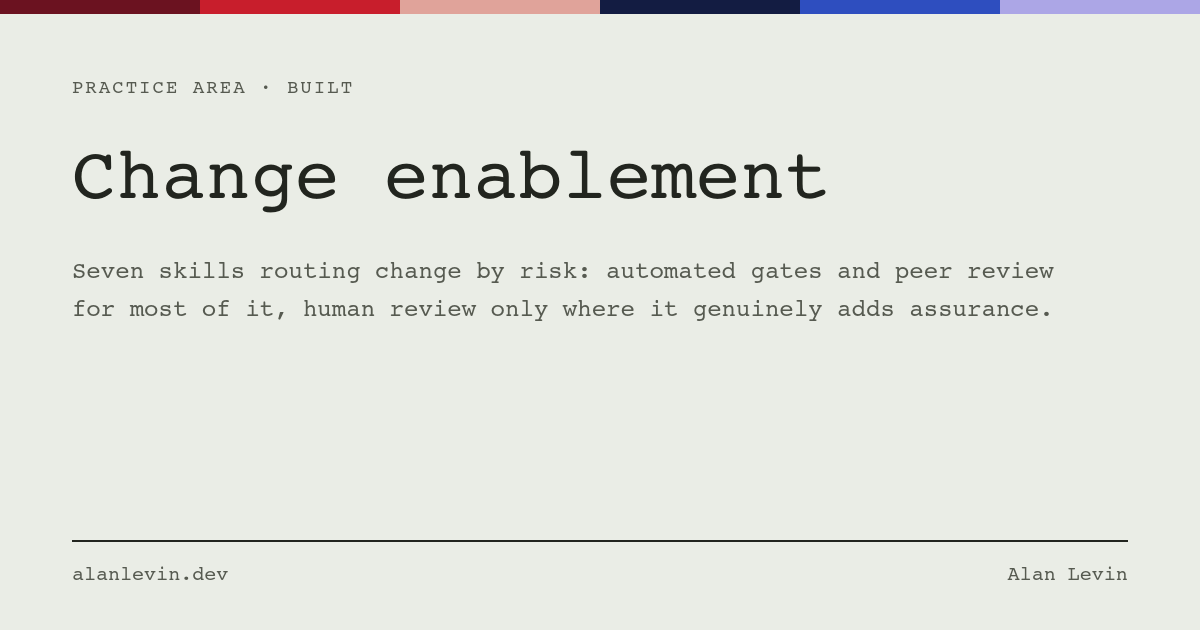
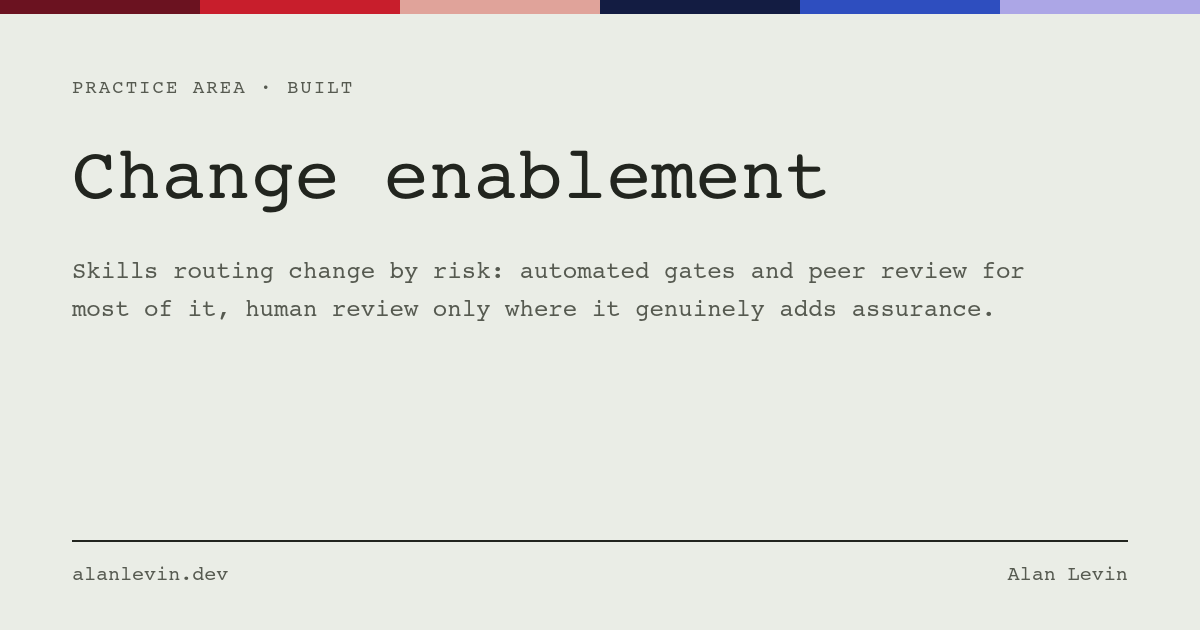
Drop skill counts site-wide

Changed region(s): [[0.0617, 0.4825, 0.8633, 0.5127], [0.3083, 0.4222, 0.8942, 0.4524], [0.0617, 0.4222, 0.2775, 0.4524]]

diff --git a/incident-problem.html b/incident-problem.html
@@ -4,27 +4,27 @@
 <meta charset="UTF-8">
 <meta name="viewport" content="width=device-width, initial-scale=1.0">
 <title>Incident &amp; problem management | Alan Levin</title>
-<meta name="description" content="Seven skills covering triage, diagnosis, status updates, resolution, problem records, root cause analysis and known errors.">
+<meta name="description" content="Skills covering triage, diagnosis, status updates, resolution, problem records, root cause analysis and known errors.">
 
 <!-- Link previews: LinkedIn, Slack, iMessage, Twitter/X, Facebook -->
 <meta property="og:type" content="website">
 <meta property="og:site_name" content="Alan Levin">
 <meta property="og:url" content="https://alanlevin.dev/incident-problem.html">
 <meta property="og:title" content="Incident & problem management | Alan Levin">
-<meta property="og:description" content="Seven skills built from a real escalation matrix: severity triage, live diagnosis, multi-audience status updates, RFO, root cause analysis and known error records.">
+<meta property="og:description" content="Skills built from a real escalation matrix: severity triage, live diagnosis, multi-audience status updates, RFO, root cause analysis and known error records.">
 <meta property="og:image" content="https://alanlevin.dev/og/incident-problem.png">
 <meta property="og:image:width" content="1200">
 <meta property="og:image:height" content="630">
 <meta property="og:image:alt" content="Incident & problem management | Alan Levin">
 <meta name="twitter:card" content="summary_large_image">
 <meta name="twitter:title" content="Incident & problem management | Alan Levin">
-<meta name="twitter:description" content="Seven skills built from a real escalation matrix: severity triage, live diagnosis, multi-audience status updates, RFO, root cause analysis and known error records.">
+<meta name="twitter:description" content="Skills built from a real escalation matrix: severity triage, live diagnosis, multi-audience status updates, RFO, root cause analysis and known error records.">
 <meta name="twitter:image" content="https://alanlevin.dev/og/incident-problem.png">
 <link rel="canonical" href="https://alanlevin.dev/incident-problem.html">
 <link rel="preconnect" href="https://fonts.googleapis.com">
 <link rel="preconnect" href="https://fonts.gstatic.com" crossorigin>
 <link href="https://fonts.googleapis.com/css2?family=Special+Elite&family=Courier+Prime:wght@400;700&display=swap" rel="stylesheet">
-<link rel="stylesheet" href="css/style.css?v=19">
+<link rel="stylesheet" href="css/style.css?v=20">
 </head>
 <body>
 
@@ -52,7 +52,7 @@
   <div class="case-header">
     <span>Subject: <b>Incident &amp; Problem Management, end to end</b></span>
     <span>Filed by: <b>Alan Levin</b></span>
-    <span>Practice: <b>7 skills</b></span>
+    <span>Practice: <b>Incident &amp; problem management</b></span>
   </div>
 </div>
 
@@ -61,7 +61,7 @@
   <section class="hero">
     <div class="wrap">
       <p class="kicker">Practice area · built</p>
-      <h1>Optimizing and automating the incident &amp; problem management workflow with seven skills built from a real escalation matrix.</h1>
+      <h1>Optimizing and automating the incident &amp; problem management workflow.</h1>
       <p class="hero-sub">A working severity matrix, escalation rules, status-update templates, and a root-cause process built from years running on-call programs and high-severity response: encoded so Claude can run the workflow the way a real ops team would.</p>
     </div>
   </section>
@@ -69,7 +69,7 @@
     <div class="wrap">
       <p class="section-label">At a glance</p>
       <h2>The shape of the workflow.</h2>
-      <p class="section-sub">Two practices, seven skills, one continuous loop. The warm half runs while the service is down and the clock matters. The cool half runs afterwards, when getting it right matters more than getting it fast.</p>
+      <p class="section-sub">Two practices, one continuous loop. The warm half runs while the service is down and the clock matters. The cool half runs afterwards, when getting it right matters more than getting it fast.</p>
 
       <div class="wf">
         <svg viewBox="0 0 920 350" role="img" aria-labelledby="wfTitle wfDesc" class="wf-svg">
@@ -164,7 +164,7 @@
   <section id="demo" class="demo-section">
     <div class="wrap">
       <p class="section-label">See it run</p>
-      <h2>One incident, seven skills, start to finish.</h2>
+      <h2>One incident, start to finish.</h2>
       <p class="section-sub">Every step applies the actual skill logic: the severity matrix, escalation rules, and templates built and iterated earlier in this project: walked through end to end on one incident. Step through it below.</p>
 
       <div class="console" id="console">
@@ -181,7 +181,7 @@
   <section id="pipeline" class="pipeline-section">
     <div class="wrap">
       <p class="section-label">The skills</p>
-      <h2>Seven skills. One workflow. Each one hands off to the next.</h2>
+      <h2>One workflow. Each skill hands off to the next.</h2>
       <p class="section-sub">Written individually, in the order a real incident actually moves through them. Each one's actual source is viewable below. Not a description of what it does, the real instructions.</p>
 
       <ol class="pipeline">

diff --git a/change-enablement.html b/change-enablement.html
@@ -4,27 +4,27 @@
 <meta charset="UTF-8">
 <meta name="viewport" content="width=device-width, initial-scale=1.0">
 <title>Change enablement | Alan Levin</title>
-<meta name="description" content="Seven skills covering change enablement, and how change connects to service desk, incident and problem management.">
+<meta name="description" content="Skills covering change enablement, and how change connects to service desk, incident and problem management.">
 
 <!-- Link previews: LinkedIn, Slack, iMessage, Twitter/X, Facebook -->
 <meta property="og:type" content="website">
 <meta property="og:site_name" content="Alan Levin">
 <meta property="og:url" content="https://alanlevin.dev/change-enablement.html">
 <meta property="og:title" content="Change enablement | Alan Levin">
-<meta property="og:description" content="Seven skills routing change by risk. Automated gates and peer review for most changes, human review only where it adds assurance.">
+<meta property="og:description" content="Skills routing change by risk. Automated gates and peer review for most changes, human review only where it adds assurance.">
 <meta property="og:image" content="https://alanlevin.dev/og/change-enablement.png">
 <meta property="og:image:width" content="1200">
 <meta property="og:image:height" content="630">
 <meta property="og:image:alt" content="Change enablement | Alan Levin">
 <meta name="twitter:card" content="summary_large_image">
 <meta name="twitter:title" content="Change enablement | Alan Levin">
-<meta name="twitter:description" content="Seven skills routing change by risk. Automated gates and peer review for most changes, human review only where it adds assurance.">
+<meta name="twitter:description" content="Skills routing change by risk. Automated gates and peer review for most changes, human review only where it adds assurance.">
 <meta name="twitter:image" content="https://alanlevin.dev/og/change-enablement.png">
 <link rel="canonical" href="https://alanlevin.dev/change-enablement.html">
 <link rel="preconnect" href="https://fonts.googleapis.com">
 <link rel="preconnect" href="https://fonts.gstatic.com" crossorigin>
 <link href="https://fonts.googleapis.com/css2?family=Special+Elite&family=Courier+Prime:wght@400;700&display=swap" rel="stylesheet">
-<link rel="stylesheet" href="css/style.css?v=19">
+<link rel="stylesheet" href="css/style.css?v=20">
 </head>
 <body>
 
@@ -52,7 +52,7 @@
   <div class="case-header">
     <span>Subject: <b>Change Enablement, request to review</b></span>
     <span>Filed by: <b>Alan Levin</b></span>
-    <span>Practice: <b>7 skills</b></span>
+    <span>Practice: <b>Change enablement</b></span>
   </div>
 </div>
 
@@ -62,7 +62,7 @@
     <div class="wrap">
       <p class="kicker">Practice area &middot; built</p>
       <h1>Change is the cause most often found and least often modelled.</h1>
-      <p class="hero-sub">&ldquo;What changed recently?&rdquo; is the first useful question in any incident, and a deployment is the root cause in a large share of them. Yet change is usually the practice with the weakest data, full of risk levels picked from a dropdown, rollback plans that say &ldquo;redeploy the previous version,&rdquo; and a weekly board reviewing printer driver updates. These seven skills route by risk instead: automated gates and peer review carry the volume, and humans review what actually needs a human.</p>
+      <p class="hero-sub">&ldquo;What changed recently?&rdquo; is the first useful question in any incident, and a deployment is the root cause in a large share of them. Yet change is usually the practice with the weakest data, full of risk levels picked from a dropdown, rollback plans that say &ldquo;redeploy the previous version,&rdquo; and a weekly board reviewing printer driver updates. These skills route by risk instead: automated gates and peer review carry the volume, and humans review what actually needs a human.</p>
     </div>
   </section>
 
@@ -169,7 +169,7 @@
   <section id="pipeline" class="pipeline-section">
     <div class="wrap">
       <p class="section-label">The skills</p>
-      <h2>Seven skills, request to review.</h2>
+      <h2>The skills, request to review.</h2>
       <p class="section-sub">Each one's actual source is viewable below. Not a description of what it does, the real instructions.</p>
       <ol class="pipeline">
         <li class="pipe-step">

diff --git a/service-desk.html b/service-desk.html
@@ -4,27 +4,27 @@
 <meta charset="UTF-8">
 <meta name="viewport" content="width=device-width, initial-scale=1.0">
 <title>Service desk | Alan Levin</title>
-<meta name="description" content="Eight skills covering the service desk lifecycle, with the metrics tracked at each step.">
+<meta name="description" content="Skills covering the service desk lifecycle, with the metrics tracked at each step.">
 
 <!-- Link previews: LinkedIn, Slack, iMessage, Twitter/X, Facebook -->
 <meta property="og:type" content="website">
 <meta property="og:site_name" content="Alan Levin">
 <meta property="og:url" content="https://alanlevin.dev/service-desk.html">
 <meta property="og:title" content="Service desk | Alan Levin">
-<meta property="og:description" content="Eight skills covering the service desk lifecycle, with the key process indicators captured at each step.">
+<meta property="og:description" content="Skills covering the service desk lifecycle, with the key process indicators captured at each step.">
 <meta property="og:image" content="https://alanlevin.dev/og/service-desk.png">
 <meta property="og:image:width" content="1200">
 <meta property="og:image:height" content="630">
 <meta property="og:image:alt" content="Service desk | Alan Levin">
 <meta name="twitter:card" content="summary_large_image">
 <meta name="twitter:title" content="Service desk | Alan Levin">
-<meta name="twitter:description" content="Eight skills covering the service desk lifecycle, with the key process indicators captured at each step.">
+<meta name="twitter:description" content="Skills covering the service desk lifecycle, with the key process indicators captured at each step.">
 <meta name="twitter:image" content="https://alanlevin.dev/og/service-desk.png">
 <link rel="canonical" href="https://alanlevin.dev/service-desk.html">
 <link rel="preconnect" href="https://fonts.googleapis.com">
 <link rel="preconnect" href="https://fonts.gstatic.com" crossorigin>
 <link href="https://fonts.googleapis.com/css2?family=Special+Elite&family=Courier+Prime:wght@400;700&display=swap" rel="stylesheet">
-<link rel="stylesheet" href="css/style.css?v=19">
+<link rel="stylesheet" href="css/style.css?v=20">
 </head>
 <body>
 
@@ -52,7 +52,7 @@
   <div class="case-header">
     <span>Subject: <b>Service Desk, contact to closure</b></span>
     <span>Filed by: <b>Alan Levin</b></span>
-    <span>Practice: <b>7 skills</b></span>
+    <span>Practice: <b>Service desk</b></span>
   </div>
 </div>
 
@@ -61,7 +61,7 @@
   <section class="hero">
     <div class="wrap">
       <p class="kicker">Practice area &middot; built</p>
-      <h1>The front door to everything else: seven skills for the service desk lifecycle.</h1>
+      <h1>The front door to everything else: skills for the service desk lifecycle.</h1>
       <p class="hero-sub">Most incidents don't start with an alert. They start with someone calling to say something is broken. The service desk is where that contact gets classified, resolved or escalated, and either fed into incident management or closed properly, and it's where the metrics that tell you whether any of it is working actually get captured.</p>
     </div>
   </section>
@@ -438,7 +438,7 @@ should exist. This is the most valuable output of the system.</pre>
   <section id="pipeline" class="pipeline-section">
     <div class="wrap">
       <p class="section-label">The skills</p>
-      <h2>Seven skills, contact to closure.</h2>
+      <h2>Contact to closure.</h2>
       <p class="section-sub">Each one's actual source is viewable below. Not a description of what it does, the real instructions.</p>
       <ol class="pipeline">
         <li class="pipe-step">

diff --git a/index.html b/index.html
@@ -24,7 +24,7 @@
 <link rel="preconnect" href="https://fonts.googleapis.com">
 <link rel="preconnect" href="https://fonts.gstatic.com" crossorigin>
 <link href="https://fonts.googleapis.com/css2?family=Special+Elite&family=Courier+Prime:wght@400;700&display=swap" rel="stylesheet">
-<link rel="stylesheet" href="css/style.css?v=19">
+<link rel="stylesheet" href="css/style.css?v=20">
 </head>
 <body>
 
@@ -142,19 +142,19 @@
 
       <ul class="practice-list">
         <li class="practice-card practice-built">
-          <span class="practice-status">Built &middot; 7 skills</span>
+          <span class="practice-status">Built</span>
           <h3><a href="service-desk.html">Service desk</a></h3>
           <p>The front door: intake and classification, first-touch resolution, request fulfillment, escalation and handoff, user communication, closure and satisfaction, and performance review, with the key process indicators captured at each step.</p>
           <a class="practice-link" href="service-desk.html">See the practice &rarr;</a>
         </li>
         <li class="practice-card practice-built">
-          <span class="practice-status">Built · 7 skills</span>
+          <span class="practice-status">Built</span>
           <h3><a href="incident-problem.html">Incident &amp; problem management</a></h3>
           <p>Triage and severity classification, live diagnosis, multi-audience status updates, resolution and Reason for Outage (RFO), problem records, root cause analysis with corrective and preventative actions (CAPA), and known error records. Includes a runnable demo and the full integration architecture.</p>
           <a class="practice-link" href="incident-problem.html">See the practice &rarr;</a>
         </li>
         <li class="practice-card practice-built">
-          <span class="practice-status">Built &middot; 7 skills</span>
+          <span class="practice-status">Built</span>
           <h3><a href="change-enablement.html">Change enablement</a></h3>
           <p>Intake and classification, risk and impact assessment, authorization, scheduling and conflict detection, implementation and rollback planning, emergency change, and post-implementation review, plus how change connects to every other practice.</p>
           <a class="practice-link" href="change-enablement.html">See the practice &rarr;</a>

diff --git a/case-files.html b/case-files.html
@@ -23,7 +23,7 @@
 <link rel="preconnect" href="https://fonts.googleapis.com">
 <link rel="preconnect" href="https://fonts.gstatic.com" crossorigin>
 <link href="https://fonts.googleapis.com/css2?family=Special+Elite&family=Courier+Prime:wght@400;700&display=swap" rel="stylesheet">
-<link rel="stylesheet" href="css/style.css?v=19">
+<link rel="stylesheet" href="css/style.css?v=20">
 </head>
 <body>
 

diff --git a/case-pi-planning.html b/case-pi-planning.html
@@ -24,7 +24,7 @@
 <link rel="preconnect" href="https://fonts.googleapis.com">
 <link rel="preconnect" href="https://fonts.gstatic.com" crossorigin>
 <link href="https://fonts.googleapis.com/css2?family=Special+Elite&family=Courier+Prime:wght@400;700&display=swap" rel="stylesheet">
-<link rel="stylesheet" href="css/style.css?v=19">
+<link rel="stylesheet" href="css/style.css?v=20">
 </head>
 <body>
 

diff --git a/resume.html b/resume.html
@@ -24,7 +24,7 @@
 <link rel="preconnect" href="https://fonts.googleapis.com">
 <link rel="preconnect" href="https://fonts.gstatic.com" crossorigin>
 <link href="https://fonts.googleapis.com/css2?family=Special+Elite&family=Courier+Prime:wght@400;700&display=swap" rel="stylesheet">
-<link rel="stylesheet" href="css/style.css?v=19">
+<link rel="stylesheet" href="css/style.css?v=20">
 </head>
 <body>
 
